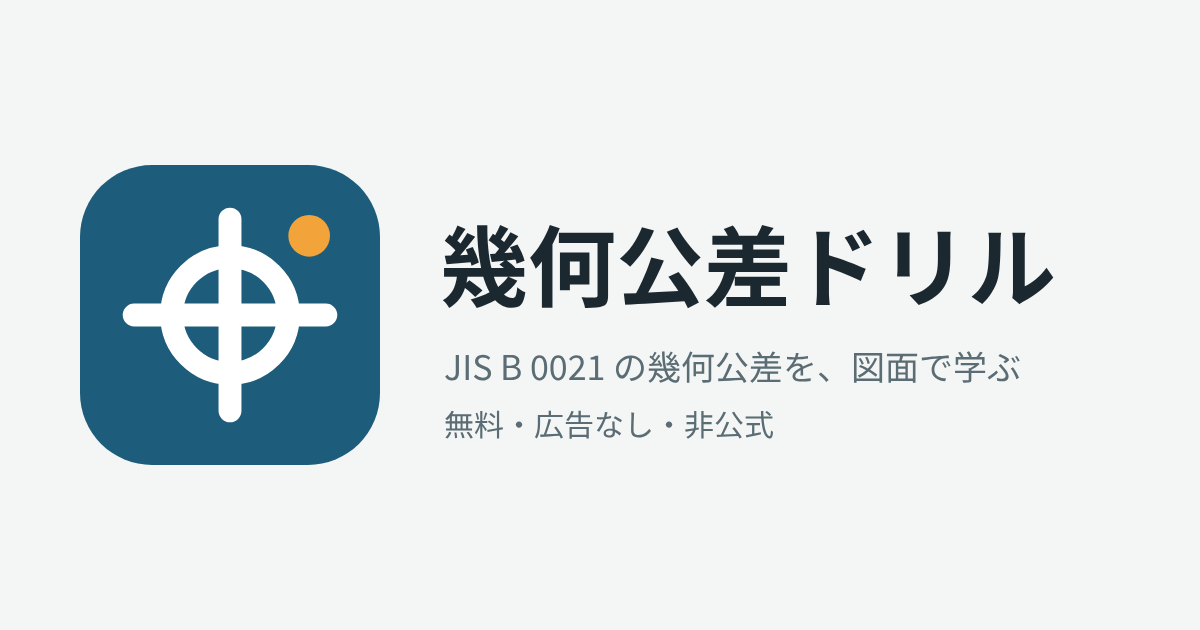
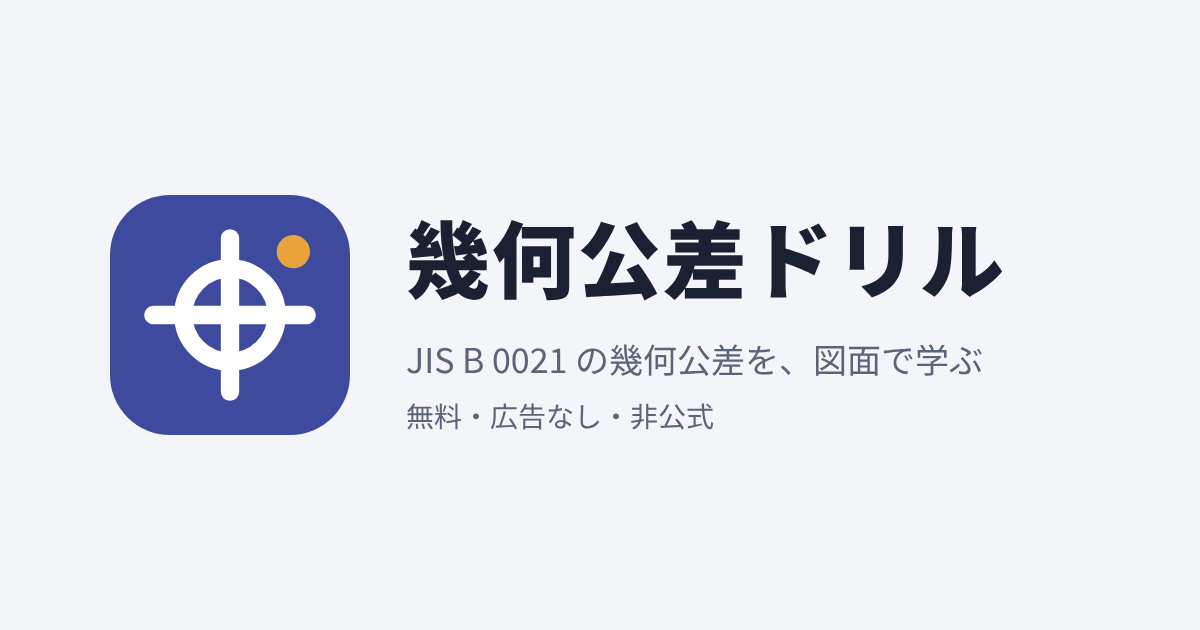
v0.6.2: 配色を藍色に変更し、アイコンも合わせる

Changed region(s): [[0.0617, 0.2413, 0.8942, 0.754]]

diff --git a/docs/index.html b/docs/index.html
@@ -1,19 +1,19 @@
-<!doctype html><html lang="ja"><head><meta charset="utf-8"><meta name="viewport" content="width=device-width,initial-scale=1,viewport-fit=cover"><style>:root{color-scheme:light;padding-top:env(safe-area-inset-top,0px);padding-bottom:env(safe-area-inset-bottom,0px)}body{margin:0}img{max-width:100%}[hidden]{display:none!important}</style><title>幾何公差ドリル｜JIS B 0021 の幾何公差を学ぶ無料問題集（非公式）</title><meta name="description" content="JIS B 0021 を主軸に、幾何公差（GD&T）の記号・データム・位置度・最大実体公差方式を学ぶ無料・広告なしの問題集。図面を読む問題、毎回数値が変わる計算問題、ISO・ASME との違い、間隔反復の復習つき。Web版とAndroid版（非公式）。"><link rel="canonical" href="https://kotaooka.github.io/gdt-drill/"><meta name="theme-color" content="#1D5C7A"><link rel="manifest" href="manifest.webmanifest"><link rel="icon" type="image/png" sizes="32x32" href="icons/favicon-32.png"><link rel="apple-touch-icon" href="icons/apple-touch-icon.png"><meta name="apple-mobile-web-app-capable" content="yes"><meta name="mobile-web-app-capable" content="yes"><meta name="apple-mobile-web-app-title" content="幾何公差ドリル"><meta name="apple-mobile-web-app-status-bar-style" content="default"><meta property="og:type" content="website"><meta property="og:site_name" content="幾何公差ドリル"><meta property="og:title" content="幾何公差ドリル｜JIS B 0021 の幾何公差を学ぶ無料問題集"><meta property="og:description" content="JIS B 0021 を主軸に、幾何公差（GD&T）の記号・データム・位置度・最大実体公差方式を学ぶ無料・広告なしの問題集。図面を読む問題、毎回数値が変わる計算問題、ISO・ASME との違い、間隔反復の復習つき。Web版とAndroid版（非公式）。"><meta property="og:url" content="https://kotaooka.github.io/gdt-drill/"><meta property="og:image" content="https://raw.githubusercontent.com/kotaooka/gdt-drill/main/screenshots/og.png"><meta name="twitter:card" content="summary_large_image"></head><body><noscript><h1>幾何公差ドリル</h1><p>JIS B 0021 を主軸に、幾何公差（GD&T）の記号・データム・位置度・最大実体公差方式を学ぶ無料・広告なしの問題集。図面を読む問題、毎回数値が変わる計算問題、ISO・ASME との違い、間隔反復の復習つき。Web版とAndroid版（非公式）。</p><p>このアプリを使うには JavaScript を有効にしてください。</p></noscript>
+<!doctype html><html lang="ja"><head><meta charset="utf-8"><meta name="viewport" content="width=device-width,initial-scale=1,viewport-fit=cover"><style>:root{color-scheme:light;padding-top:env(safe-area-inset-top,0px);padding-bottom:env(safe-area-inset-bottom,0px)}body{margin:0}img{max-width:100%}[hidden]{display:none!important}</style><title>幾何公差ドリル｜JIS B 0021 の幾何公差を学ぶ無料問題集（非公式）</title><meta name="description" content="JIS B 0021 を主軸に、幾何公差（GD&T）の記号・データム・位置度・最大実体公差方式を学ぶ無料・広告なしの問題集。図面を読む問題、毎回数値が変わる計算問題、ISO・ASME との違い、間隔反復の復習つき。Web版とAndroid版（非公式）。"><link rel="canonical" href="https://kotaooka.github.io/gdt-drill/"><meta name="theme-color" content="#3D4A9E"><link rel="manifest" href="manifest.webmanifest"><link rel="icon" type="image/png" sizes="32x32" href="icons/favicon-32.png"><link rel="apple-touch-icon" href="icons/apple-touch-icon.png"><meta name="apple-mobile-web-app-capable" content="yes"><meta name="mobile-web-app-capable" content="yes"><meta name="apple-mobile-web-app-title" content="幾何公差ドリル"><meta name="apple-mobile-web-app-status-bar-style" content="default"><meta property="og:type" content="website"><meta property="og:site_name" content="幾何公差ドリル"><meta property="og:title" content="幾何公差ドリル｜JIS B 0021 の幾何公差を学ぶ無料問題集"><meta property="og:description" content="JIS B 0021 を主軸に、幾何公差（GD&T）の記号・データム・位置度・最大実体公差方式を学ぶ無料・広告なしの問題集。図面を読む問題、毎回数値が変わる計算問題、ISO・ASME との違い、間隔反復の復習つき。Web版とAndroid版（非公式）。"><meta property="og:url" content="https://kotaooka.github.io/gdt-drill/"><meta property="og:image" content="https://raw.githubusercontent.com/kotaooka/gdt-drill/main/screenshots/og.png"><meta name="twitter:card" content="summary_large_image"></head><body><noscript><h1>幾何公差ドリル</h1><p>JIS B 0021 を主軸に、幾何公差（GD&T）の記号・データム・位置度・最大実体公差方式を学ぶ無料・広告なしの問題集。図面を読む問題、毎回数値が変わる計算問題、ISO・ASME との違い、間隔反復の復習つき。Web版とAndroid版（非公式）。</p><p>このアプリを使うには JavaScript を有効にしてください。</p></noscript>
 <style>
 /* レイアウト：方眼紙の地にマークシート型の解答欄。上部タブで5画面を切替える1カラムアプリ */
 :root{
-  --paper:#f3f6f5; --grid:rgba(29,92,122,.07); --card:#ffffff; --ink:#1c2830; --muted:#5b6c74; --line:#d3ddda;
-  --accent:#1d5c7a; --accent-soft:#e2eef3; --ucl:#b3372a; --ucl-soft:#f8e6e2; --ok:#276f43; --ok-soft:#e1f1e7; --warn:#a86a12;
+  --paper:#f4f5f9; --grid:rgba(61,74,158,.07); --card:#ffffff; --ink:#1c2033; --muted:#5d6378; --line:#d6d9e6;
+  --accent:#3d4a9e; --accent-soft:#e6e8f6; --ucl:#b3372a; --ucl-soft:#f8e6e2; --ok:#276f43; --ok-soft:#e1f1e7; --warn:#a86a12;
   --f-body:"Noto Sans JP","Noto Sans CJK JP","Hiragino Sans","Hiragino Kaku Gothic ProN","Yu Gothic UI","Yu Gothic",Meiryo,system-ui,sans-serif;
   --f-disp:var(--f-body);
   --f-num:var(--f-body);
 }
 @media (prefers-color-scheme: dark){:root:not([data-theme="light"]){
-  --paper:#10171b; --grid:rgba(111,179,210,.06); --card:#172126; --ink:#e2eaed; --muted:#93a5ac; --line:#2a3a41;
-  --accent:#72b6d6; --accent-soft:#1b3340; --ucl:#ef7b64; --ucl-soft:#3a201b; --ok:#6cc290; --ok-soft:#18332a; --warn:#e0a84a; color-scheme:dark}}
+  --paper:#10121a; --grid:rgba(154,166,240,.06); --card:#181b26; --ink:#e4e6f0; --muted:#9a9fb5; --line:#2b2f40;
+  --accent:#9aa6f0; --accent-soft:#232846; --ucl:#ef7b64; --ucl-soft:#3a201b; --ok:#6cc290; --ok-soft:#18332a; --warn:#e0a84a; color-scheme:dark}}
 :root[data-theme="dark"]{
-  --paper:#10171b; --grid:rgba(111,179,210,.06); --card:#172126; --ink:#e2eaed; --muted:#93a5ac; --line:#2a3a41;
-  --accent:#72b6d6; --accent-soft:#1b3340; --ucl:#ef7b64; --ucl-soft:#3a201b; --ok:#6cc290; --ok-soft:#18332a; --warn:#e0a84a; color-scheme:dark}
+  --paper:#10121a; --grid:rgba(154,166,240,.06); --card:#181b26; --ink:#e4e6f0; --muted:#9a9fb5; --line:#2b2f40;
+  --accent:#9aa6f0; --accent-soft:#232846; --ucl:#ef7b64; --ucl-soft:#3a201b; --ok:#6cc290; --ok-soft:#18332a; --warn:#e0a84a; color-scheme:dark}
 *{box-sizing:border-box}
 body{background:var(--paper);background-image:linear-gradient(var(--grid) 1px,transparent 1px),linear-gradient(90deg,var(--grid) 1px,transparent 1px);background-size:20px 20px;color:var(--ink);font-family:var(--f-body);font-size:15px;line-height:1.7}
 button{font:inherit;color:inherit}
@@ -247,9 +247,9 @@ mark.blank{background:var(--accent-soft);color:var(--accent);font-weight:700;pad
    図案の主役は「マークシートの楕円」。学習ロードの各ステージを塗りつぶす楕円で表す。
    色は管理図の配色：中心線の青（主色）、管理限界の赤（不正解）、安定の緑（正解）、注意の琥珀（連続記録）。
    =================================================================== */
-:root{--r-xl:24px;--r-lg:16px;--r-md:12px;--r-sm:8px;--pri:var(--accent);--on-pri:#fff;--pri-c:#d3e7f0;--on-pri-c:#0d3a4f;--surf2:#e9efed;--elev:0 1px 2px rgba(16,40,52,.08),0 2px 8px rgba(16,40,52,.06);--nav-h:72px;--flame:#c77412}
-@media (prefers-color-scheme: dark){:root:not([data-theme="light"]){--hero-bg:#1b4256;--hero-fg:#e6f2f7;--pri-c:#1d3a48;--on-pri:#06212d;--on-pri-c:#cfe6f2;--surf2:#1d292e;--elev:0 1px 2px rgba(0,0,0,.4);--flame:#f0a43a}}
-:root[data-theme="dark"]{--hero-bg:#1b4256;--hero-fg:#e6f2f7;--pri-c:#1d3a48;--on-pri:#06212d;--on-pri-c:#cfe6f2;--surf2:#1d292e;--elev:0 1px 2px rgba(0,0,0,.4);--flame:#f0a43a}
+:root{--r-xl:24px;--r-lg:16px;--r-md:12px;--r-sm:8px;--pri:var(--accent);--on-pri:#fff;--pri-c:#dde1f7;--on-pri-c:#1b2266;--surf2:#eaecf4;--elev:0 1px 2px rgba(20,24,60,.08),0 2px 8px rgba(20,24,60,.06);--nav-h:72px;--flame:#c77412}
+@media (prefers-color-scheme: dark){:root:not([data-theme="light"]){--hero-bg:#262d5e;--hero-fg:#e8eaff;--pri-c:#262c52;--on-pri:#0d1030;--on-pri-c:#dde1fb;--surf2:#1f2230;--elev:0 1px 2px rgba(0,0,0,.4);--flame:#f0a43a}}
+:root[data-theme="dark"]{--hero-bg:#262d5e;--hero-fg:#e8eaff;--pri-c:#262c52;--on-pri:#0d1030;--on-pri-c:#dde1fb;--surf2:#1f2230;--elev:0 1px 2px rgba(0,0,0,.4);--flame:#f0a43a}
 html{-webkit-tap-highlight-color:transparent;font-size:calc(16px * var(--fs,1))}
 /* 数字は桁がそろう等幅の数字にする（書体は本文と同じ） */
 body{font-variant-numeric:tabular-nums}
@@ -563,12 +563,12 @@ body.onbopen{overflow:hidden}
 .srl{padding-top:4px;padding-bottom:4px}.sri{border-bottom:1px solid var(--line);padding:8px 0}.sri:last-child,.srrow:last-child{border-bottom:0}
 .sri summary{cursor:pointer;line-height:1.6}.sri .lbl,.srrow .lbl{margin-left:8px;font-size:.72rem}.sra{margin:6px 0 2px}.sra b{margin-right:8px;color:var(--ok)}
 .srrow{display:flex;justify-content:space-between;align-items:center;gap:10px;padding:8px 0;border-bottom:1px solid var(--line);line-height:1.5}
-mark{background:#ffe58a;color:#1c2830;border-radius:2px;padding:0 1px}.code{font-family:var(--f-num);letter-spacing:.08em;font-size:1.05em}
+mark{background:#ffe58a;color:#1c2033;border-radius:2px;padding:0 1px}.code{font-family:var(--f-num);letter-spacing:.08em;font-size:1.05em}
 </style>
 
 <header class="appbar">
   <div class="bar">
-    <svg class="brandmark" viewBox="18 18 72 72" aria-hidden="true"><rect x="18" y="18" width="72" height="72" rx="18" fill="#1D5C7A"/><g fill="none" stroke="#FFFFFF" stroke-width="5.5" stroke-linecap="round"><circle cx="54" cy="54" r="14"/><path d="M54 31V77M31 54H77"/></g><circle cx="73" cy="35" r="5" fill="#F2A33A"/></svg>
+    <svg class="brandmark" viewBox="18 18 72 72" aria-hidden="true"><rect x="18" y="18" width="72" height="72" rx="18" fill="#3D4A9E"/><g fill="none" stroke="#FFFFFF" stroke-width="5.5" stroke-linecap="round"><circle cx="54" cy="54" r="14"/><path d="M54 31V77M31 54H77"/></g><circle cx="73" cy="35" r="5" fill="#E8A33D"/></svg>
     <h1 class="brand">幾何公差ドリル</h1>
     <button class="streakbtn" id="streakChip" aria-label="連続記録"></button>
     <button class="iconbtn" id="srchBtn" aria-label="検索"></button>
@@ -1108,9 +1108,10 @@ const DAI = [
 ];
 // ===== バージョン情報と資料（規格・早見表） =====
 const APP = {
-  version: '0.6.1',
+  version: '0.6.2',
   date: '2026-10-07',
   history: [
+    ['0.6.2', '2026-10-07', '配色を藍色に変更（QC2級ドリルと見分けやすく）。アイコンも同じ色に'],
     ['0.6.1', '2026-10-07', '見直しによる修正：端面の振れを誤りと判定していた、V ブロック法の説明、ケース問題（ピンの真直度・データムのない位置度の図）、比較表の平面度、Ⓜ の判定の漏れ、全角数字の入力、検索の強調、解答中の検索ボタン、出題コードの打ち間違い、中断中の診断の上書き、画像の長い氏名'],
     ['0.6.0', '2026-10-07', '記入枠を読むツール（意味・公差域・データム・Ⓜ・測り方と不適切な指示の指摘）、検索、実力診断の出題コード（教育用）、実務のケース問題6題（成績書の判定・指示の不足）、早見表の比較表を追加'],
     ['0.5.0', '2026-10-07', '問題の種類を5つ（知識・計算・図面を読む・記入枠を組む・検図）に整理。動く図（Ⓜのボーナス公差、位置度の公差域、積み上げ）、合否を判定する問題、記号フラッシュ、実績（バッジ）、実力診断の結果の画像保存を追加。公式集を早見表に統合し、成績は分野を開くと分類が見える形に。章末テストに大問を追加。目標日の設定を削除'],
@@ -1802,7 +1803,7 @@ function diagCanvas(r,n,name){
   const weak=r.items.filter(o=>o.c<o.n).sort((a,b)=>a.c/a.n-b.c/b.n||b.n-a.n).slice(0,6);
   const code=mock&&mock.code,off=code?46:0,H=560+off+FIELDS.length*84+(weak.length?120+weak.length*52:0)+90;
   const cv=document.createElement('canvas');cv.width=W;cv.height=H;const g=cv.getContext('2d');
-  const C={bg:'#ffffff',ink:'#1c2830',muted:'#5b6c74',line:'#d3ddda',pri:'#1d5c7a',ok:'#276f43',ng:'#b3372a',soft:'#e2eef3'};
+  const C={bg:'#ffffff',ink:'#1c2033',muted:'#5d6378',line:'#d6d9e6',pri:'#3d4a9e',ok:'#276f43',ng:'#b3372a',soft:'#e6e8f6'};
   // mw を超える文字列は横に縮めて収める（長い氏名・項目名で右端が切れないように）
   const T=(t,x,y,sz,col,wt,al,mw)=>{g.font=`${wt||400} ${sz}px ${font}`;g.fillStyle=col||C.ink;g.textAlign=al||'left';mw?g.fillText(t,x,y,mw):g.fillText(t,x,y);};
   g.fillStyle=C.bg;g.fillRect(0,0,W,H);g.fillStyle=C.pri;g.fillRect(0,0,W,14);
@@ -3470,7 +3471,7 @@ function confetti(){
   const cv=document.createElement('canvas'),W=innerWidth,H=innerHeight,dpr=devicePixelRatio||1;cv.width=W*dpr;cv.height=H*dpr;
   cv.style.cssText='position:fixed;inset:0;width:100%;height:100%;pointer-events:none;z-index:60';document.body.appendChild(cv);
   const g=cv.getContext('2d');g.scale(dpr,dpr);
-  const col=['#1d5c7a','#2c7a4b','#c77412','#c03d2a','#72b6d6','#6cc290'];
+  const col=['#3d4a9e','#2c7a4b','#c77412','#c03d2a','#9aa6f0','#6cc290'];
   const P=[...Array(90)].map(()=>({x:W/2+(Math.random()-.5)*W*.3,y:H*.35,vx:(Math.random()-.5)*9,vy:-Math.random()*10-4,r:Math.random()*6+4,a:Math.random()*6,va:(Math.random()-.5)*.3,c:col[Math.floor(Math.random()*col.length)],e:Math.random()<.5}));
   const t0=performance.now();
   (function step(t){const k=(t-t0)/1000;g.clearRect(0,0,W,H);

diff --git a/src/template.html b/src/template.html
@@ -2,18 +2,18 @@
 <style>
 /* レイアウト：方眼紙の地にマークシート型の解答欄。上部タブで5画面を切替える1カラムアプリ */
 :root{
-  --paper:#f3f6f5; --grid:rgba(29,92,122,.07); --card:#ffffff; --ink:#1c2830; --muted:#5b6c74; --line:#d3ddda;
-  --accent:#1d5c7a; --accent-soft:#e2eef3; --ucl:#b3372a; --ucl-soft:#f8e6e2; --ok:#276f43; --ok-soft:#e1f1e7; --warn:#a86a12;
+  --paper:#f4f5f9; --grid:rgba(61,74,158,.07); --card:#ffffff; --ink:#1c2033; --muted:#5d6378; --line:#d6d9e6;
+  --accent:#3d4a9e; --accent-soft:#e6e8f6; --ucl:#b3372a; --ucl-soft:#f8e6e2; --ok:#276f43; --ok-soft:#e1f1e7; --warn:#a86a12;
   --f-body:"Noto Sans JP","Noto Sans CJK JP","Hiragino Sans","Hiragino Kaku Gothic ProN","Yu Gothic UI","Yu Gothic",Meiryo,system-ui,sans-serif;
   --f-disp:var(--f-body);
   --f-num:var(--f-body);
 }
 @media (prefers-color-scheme: dark){:root:not([data-theme="light"]){
-  --paper:#10171b; --grid:rgba(111,179,210,.06); --card:#172126; --ink:#e2eaed; --muted:#93a5ac; --line:#2a3a41;
-  --accent:#72b6d6; --accent-soft:#1b3340; --ucl:#ef7b64; --ucl-soft:#3a201b; --ok:#6cc290; --ok-soft:#18332a; --warn:#e0a84a; color-scheme:dark}}
+  --paper:#10121a; --grid:rgba(154,166,240,.06); --card:#181b26; --ink:#e4e6f0; --muted:#9a9fb5; --line:#2b2f40;
+  --accent:#9aa6f0; --accent-soft:#232846; --ucl:#ef7b64; --ucl-soft:#3a201b; --ok:#6cc290; --ok-soft:#18332a; --warn:#e0a84a; color-scheme:dark}}
 :root[data-theme="dark"]{
-  --paper:#10171b; --grid:rgba(111,179,210,.06); --card:#172126; --ink:#e2eaed; --muted:#93a5ac; --line:#2a3a41;
-  --accent:#72b6d6; --accent-soft:#1b3340; --ucl:#ef7b64; --ucl-soft:#3a201b; --ok:#6cc290; --ok-soft:#18332a; --warn:#e0a84a; color-scheme:dark}
+  --paper:#10121a; --grid:rgba(154,166,240,.06); --card:#181b26; --ink:#e4e6f0; --muted:#9a9fb5; --line:#2b2f40;
+  --accent:#9aa6f0; --accent-soft:#232846; --ucl:#ef7b64; --ucl-soft:#3a201b; --ok:#6cc290; --ok-soft:#18332a; --warn:#e0a84a; color-scheme:dark}
 *{box-sizing:border-box}
 body{background:var(--paper);background-image:linear-gradient(var(--grid) 1px,transparent 1px),linear-gradient(90deg,var(--grid) 1px,transparent 1px);background-size:20px 20px;color:var(--ink);font-family:var(--f-body);font-size:15px;line-height:1.7}
 button{font:inherit;color:inherit}
@@ -247,9 +247,9 @@ mark.blank{background:var(--accent-soft);color:var(--accent);font-weight:700;pad
    図案の主役は「マークシートの楕円」。学習ロードの各ステージを塗りつぶす楕円で表す。
    色は管理図の配色：中心線の青（主色）、管理限界の赤（不正解）、安定の緑（正解）、注意の琥珀（連続記録）。
    =================================================================== */
-:root{--r-xl:24px;--r-lg:16px;--r-md:12px;--r-sm:8px;--pri:var(--accent);--on-pri:#fff;--pri-c:#d3e7f0;--on-pri-c:#0d3a4f;--surf2:#e9efed;--elev:0 1px 2px rgba(16,40,52,.08),0 2px 8px rgba(16,40,52,.06);--nav-h:72px;--flame:#c77412}
-@media (prefers-color-scheme: dark){:root:not([data-theme="light"]){--hero-bg:#1b4256;--hero-fg:#e6f2f7;--pri-c:#1d3a48;--on-pri:#06212d;--on-pri-c:#cfe6f2;--surf2:#1d292e;--elev:0 1px 2px rgba(0,0,0,.4);--flame:#f0a43a}}
-:root[data-theme="dark"]{--hero-bg:#1b4256;--hero-fg:#e6f2f7;--pri-c:#1d3a48;--on-pri:#06212d;--on-pri-c:#cfe6f2;--surf2:#1d292e;--elev:0 1px 2px rgba(0,0,0,.4);--flame:#f0a43a}
+:root{--r-xl:24px;--r-lg:16px;--r-md:12px;--r-sm:8px;--pri:var(--accent);--on-pri:#fff;--pri-c:#dde1f7;--on-pri-c:#1b2266;--surf2:#eaecf4;--elev:0 1px 2px rgba(20,24,60,.08),0 2px 8px rgba(20,24,60,.06);--nav-h:72px;--flame:#c77412}
+@media (prefers-color-scheme: dark){:root:not([data-theme="light"]){--hero-bg:#262d5e;--hero-fg:#e8eaff;--pri-c:#262c52;--on-pri:#0d1030;--on-pri-c:#dde1fb;--surf2:#1f2230;--elev:0 1px 2px rgba(0,0,0,.4);--flame:#f0a43a}}
+:root[data-theme="dark"]{--hero-bg:#262d5e;--hero-fg:#e8eaff;--pri-c:#262c52;--on-pri:#0d1030;--on-pri-c:#dde1fb;--surf2:#1f2230;--elev:0 1px 2px rgba(0,0,0,.4);--flame:#f0a43a}
 html{-webkit-tap-highlight-color:transparent;font-size:calc(16px * var(--fs,1))}
 /* 数字は桁がそろう等幅の数字にする（書体は本文と同じ） */
 body{font-variant-numeric:tabular-nums}
@@ -563,12 +563,12 @@ body.onbopen{overflow:hidden}
 .srl{padding-top:4px;padding-bottom:4px}.sri{border-bottom:1px solid var(--line);padding:8px 0}.sri:last-child,.srrow:last-child{border-bottom:0}
 .sri summary{cursor:pointer;line-height:1.6}.sri .lbl,.srrow .lbl{margin-left:8px;font-size:.72rem}.sra{margin:6px 0 2px}.sra b{margin-right:8px;color:var(--ok)}
 .srrow{display:flex;justify-content:space-between;align-items:center;gap:10px;padding:8px 0;border-bottom:1px solid var(--line);line-height:1.5}
-mark{background:#ffe58a;color:#1c2830;border-radius:2px;padding:0 1px}.code{font-family:var(--f-num);letter-spacing:.08em;font-size:1.05em}
+mark{background:#ffe58a;color:#1c2033;border-radius:2px;padding:0 1px}.code{font-family:var(--f-num);letter-spacing:.08em;font-size:1.05em}
 </style>
 
 <header class="appbar">
   <div class="bar">
-    <svg class="brandmark" viewBox="18 18 72 72" aria-hidden="true"><rect x="18" y="18" width="72" height="72" rx="18" fill="#1D5C7A"/><g fill="none" stroke="#FFFFFF" stroke-width="5.5" stroke-linecap="round"><circle cx="54" cy="54" r="14"/><path d="M54 31V77M31 54H77"/></g><circle cx="73" cy="35" r="5" fill="#F2A33A"/></svg>
+    <svg class="brandmark" viewBox="18 18 72 72" aria-hidden="true"><rect x="18" y="18" width="72" height="72" rx="18" fill="#3D4A9E"/><g fill="none" stroke="#FFFFFF" stroke-width="5.5" stroke-linecap="round"><circle cx="54" cy="54" r="14"/><path d="M54 31V77M31 54H77"/></g><circle cx="73" cy="35" r="5" fill="#E8A33D"/></svg>
     <h1 class="brand">幾何公差ドリル</h1>
     <button class="streakbtn" id="streakChip" aria-label="連続記録"></button>
     <button class="iconbtn" id="srchBtn" aria-label="検索"></button>
@@ -1689,7 +1689,7 @@ function confetti(){
   const cv=document.createElement('canvas'),W=innerWidth,H=innerHeight,dpr=devicePixelRatio||1;cv.width=W*dpr;cv.height=H*dpr;
   cv.style.cssText='position:fixed;inset:0;width:100%;height:100%;pointer-events:none;z-index:60';document.body.appendChild(cv);
   const g=cv.getContext('2d');g.scale(dpr,dpr);
-  const col=['#1d5c7a','#2c7a4b','#c77412','#c03d2a','#72b6d6','#6cc290'];
+  const col=['#3d4a9e','#2c7a4b','#c77412','#c03d2a','#9aa6f0','#6cc290'];
   const P=[...Array(90)].map(()=>({x:W/2+(Math.random()-.5)*W*.3,y:H*.35,vx:(Math.random()-.5)*9,vy:-Math.random()*10-4,r:Math.random()*6+4,a:Math.random()*6,va:(Math.random()-.5)*.3,c:col[Math.floor(Math.random()*col.length)],e:Math.random()<.5}));
   const t0=performance.now();
   (function step(t){const k=(t-t0)/1000;g.clearRect(0,0,W,H);

diff --git a/src/res.js b/src/res.js
@@ -1,8 +1,9 @@
 // ===== バージョン情報と資料（規格・早見表） =====
 const APP = {
-  version: '0.6.1',
+  version: '0.6.2',
   date: '2026-10-07',
   history: [
+    ['0.6.2', '2026-10-07', '配色を藍色に変更（QC2級ドリルと見分けやすく）。アイコンも同じ色に'],
     ['0.6.1', '2026-10-07', '見直しによる修正：端面の振れを誤りと判定していた、V ブロック法の説明、ケース問題（ピンの真直度・データムのない位置度の図）、比較表の平面度、Ⓜ の判定の漏れ、全角数字の入力、検索の強調、解答中の検索ボタン、出題コードの打ち間違い、中断中の診断の上書き、画像の長い氏名'],
     ['0.6.0', '2026-10-07', '記入枠を読むツール（意味・公差域・データム・Ⓜ・測り方と不適切な指示の指摘）、検索、実力診断の出題コード（教育用）、実務のケース問題6題（成績書の判定・指示の不足）、早見表の比較表を追加'],
     ['0.5.0', '2026-10-07', '問題の種類を5つ（知識・計算・図面を読む・記入枠を組む・検図）に整理。動く図（Ⓜのボーナス公差、位置度の公差域、積み上げ）、合否を判定する問題、記号フラッシュ、実績（バッジ）、実力診断の結果の画像保存を追加。公式集を早見表に統合し、成績は分野を開くと分類が見える形に。章末テストに大問を追加。目標日の設定を削除'],

diff --git a/src/play.js b/src/play.js
@@ -79,7 +79,7 @@ function diagCanvas(r,n,name){
   const weak=r.items.filter(o=>o.c<o.n).sort((a,b)=>a.c/a.n-b.c/b.n||b.n-a.n).slice(0,6);
   const code=mock&&mock.code,off=code?46:0,H=560+off+FIELDS.length*84+(weak.length?120+weak.length*52:0)+90;
   const cv=document.createElement('canvas');cv.width=W;cv.height=H;const g=cv.getContext('2d');
-  const C={bg:'#ffffff',ink:'#1c2830',muted:'#5b6c74',line:'#d3ddda',pri:'#1d5c7a',ok:'#276f43',ng:'#b3372a',soft:'#e2eef3'};
+  const C={bg:'#ffffff',ink:'#1c2033',muted:'#5d6378',line:'#d6d9e6',pri:'#3d4a9e',ok:'#276f43',ng:'#b3372a',soft:'#e6e8f6'};
   // mw を超える文字列は横に縮めて収める（長い氏名・項目名で右端が切れないように）
   const T=(t,x,y,sz,col,wt,al,mw)=>{g.font=`${wt||400} ${sz}px ${font}`;g.fillStyle=col||C.ink;g.textAlign=al||'left';mw?g.fillText(t,x,y,mw):g.fillText(t,x,y);};
   g.fillStyle=C.bg;g.fillRect(0,0,W,H);g.fillStyle=C.pri;g.fillRect(0,0,W,14);

diff --git a/docs/sw.js b/docs/sw.js
@@ -3,7 +3,7 @@
 //   通信できるときは常に最新版が表示され、更新のたびにこのファイルを書き換える必要はない。
 // ・アイコンなどの小さなファイルは「保存済みを優先」。
 // ・別のサイトへの通信（更新の確認で使う GitHub の API など）には関与しない。
-const CACHE = 'gdt-drill-v1';
+const CACHE = 'gdt-drill-v2';
 const CORE = ['./', './index.html', './manifest.webmanifest', './icons/icon-192.png', './icons/icon-512.png', './icons/apple-touch-icon.png', './icons/favicon-32.png'];
 
 self.addEventListener('install', e => {

diff --git a/tools/build.py b/tools/build.py
@@ -23,7 +23,7 @@ OGIMG = "https://raw.githubusercontent.com/kotaooka/gdt-drill/main/screenshots/o
 META = (
     f'<meta name="description" content="{DESC}">'
     f'<link rel="canonical" href="{URL}">'
-    '<meta name="theme-color" content="#1D5C7A">'
+    '<meta name="theme-color" content="#3D4A9E">'
     # ホーム画面に追加（PWA）用：manifest・アイコン。Service Worker の登録は画面側（template.html）で行う
     '<link rel="manifest" href="manifest.webmanifest">'
     '<link rel="icon" type="image/png" sizes="32x32" href="icons/favicon-32.png">'
